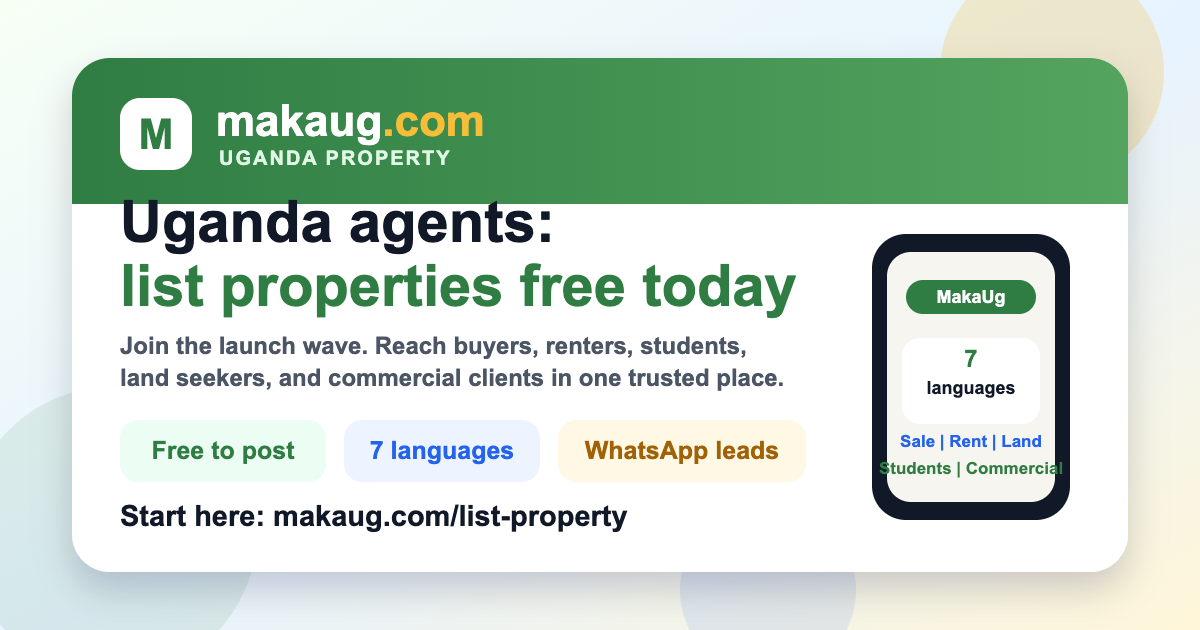
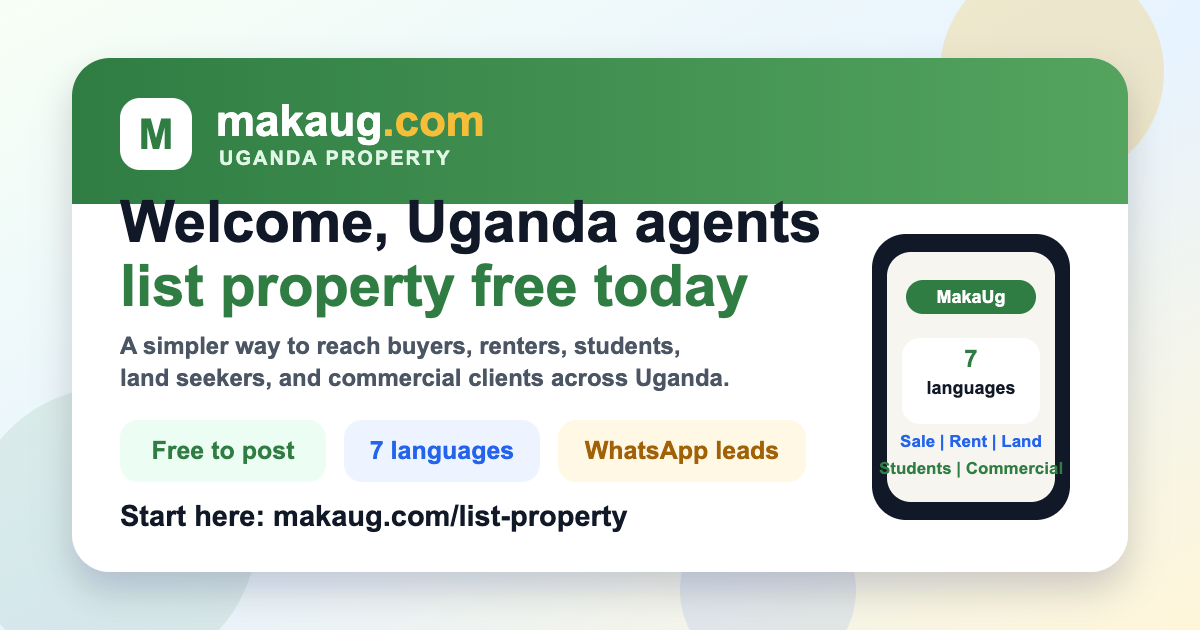
Soften agent welcome WhatsApp copy

Changed region(s): [[0.0925, 0.3016, 0.6783, 0.5127], [0.0925, 0.5127, 0.6475, 0.6333]]

diff --git a/services/outreachTemplateService.js b/services/outreachTemplateService.js
@@ -25,24 +25,25 @@ function buildAgentWelcomeWhatsappMessage({
 } = {}) {
   const firstName = firstNameFromLeadName(name);
   const sourceLine = source
-    ? `I found your public property contact details via ${String(source).replace(/\s+/g, ' ').trim().slice(0, 90)}.`
-    : 'I wanted to introduce MakaUg properly.';
+    ? `I came across your public property contact details via ${String(source).replace(/\s+/g, ' ').trim().slice(0, 90)} and wanted to introduce ourselves respectfully.`
+    : 'I wanted to introduce MakaUg properly and warmly.';
 
   return [
     cardUrl,
     '',
-    `Hi ${firstName}, this is MakaUg.`,
-    `${sourceLine} We are launching Uganda's property marketplace and inviting agents, brokers, agencies, and owners to post listings free today.`,
+    `Hi ${firstName}, hope you are well. This is the MakaUg team.`,
+    `${sourceLine} We are launching makaug.com, a Uganda-first property marketplace built to help genuine agents, brokers, agencies, and property owners get more visibility without adding another complicated platform.`,
     '',
-    'Why it is worth joining now:',
-    '- Free to post sale, rent, land, commercial, and student listings',
-    '- makaug.com works in 7 languages for more local reach',
-    '- Buyers and renters can enquire through the website and WhatsApp',
-    '- Early agents get launch visibility while the platform grows',
+    'A few helpful things for agents:',
+    '- It is free to post property listings during launch',
+    '- makaug.com supports 7 languages, so more local clients can understand and enquire',
+    '- You can list homes for sale, rentals, land, commercial spaces, and student accommodation',
+    '- Enquiries can come through the website and WhatsApp-friendly follow-up',
+    '- If you need help, we can guide you through your first listings',
     '',
-    `Start here: ${listPropertyUrl}`,
+    `You can have a look or start here: ${listPropertyUrl}`,
     '',
-    'Reply YES for onboarding help today. Reply STOP and we will not contact you again.'
+    'If this sounds useful, reply YES and we will help with onboarding today. Reply STOP and we will not contact you again.'
   ].join('\n');
 }
 

diff --git a/tests/agent-welcome-whatsapp-template.test.js b/tests/agent-welcome-whatsapp-template.test.js
@@ -23,8 +23,10 @@ const message = buildAgentWelcomeWhatsappMessage({
 
 assert.strictEqual(AGENT_WELCOME_WHATSAPP_TEMPLATE_KEY, 'lead_outreach_agent_welcome_launch_card');
 assert(message.startsWith(AGENT_WELCOME_CARD_URL), 'WhatsApp preview card link should be first for rich preview unfurling');
-assert(message.includes('Free to post'), 'Agent welcome message must call out free posting');
+assert(message.includes('hope you are well'), 'Agent welcome message must use a warm opening');
+assert(message.includes('free to post'), 'Agent welcome message must call out free posting');
 assert(message.includes('7 languages'), 'Agent welcome message must call out seven languages');
+assert(message.includes('we can guide you through your first listings'), 'Agent welcome message must offer onboarding help');
 assert(message.includes('makaug.com'), 'Agent welcome message must include makaug.com');
 assert(message.includes('Reply STOP'), 'Agent welcome message must include STOP opt-out wording');
 assert(message.length <= 1200, 'Agent welcome WhatsApp message must fit outreach send limit');
@@ -33,7 +35,8 @@ assert(cardHtml.includes('og:image'), 'Welcome page must expose an Open Graph im
 assert(cardHtml.includes('makaug-agent-welcome-card.png'), 'Welcome page must point WhatsApp previews to the PNG card');
 assert(cardHtml.includes('List a property free'), 'Welcome page must include a visible listing CTA');
 
-assert(cardSvg.includes('list properties free today'), 'Welcome card must include the launch free-posting promise');
+assert(cardSvg.includes('Welcome, Uganda agents'), 'Welcome card must use a warmer welcome headline');
+assert(cardSvg.includes('list property free today'), 'Welcome card must include the launch free-posting promise');
 assert(cardSvg.includes('7 languages'), 'Welcome card must include seven-language callout');
 assert(cardSvg.includes('WhatsApp leads'), 'Welcome card must include WhatsApp lead callout');
 
